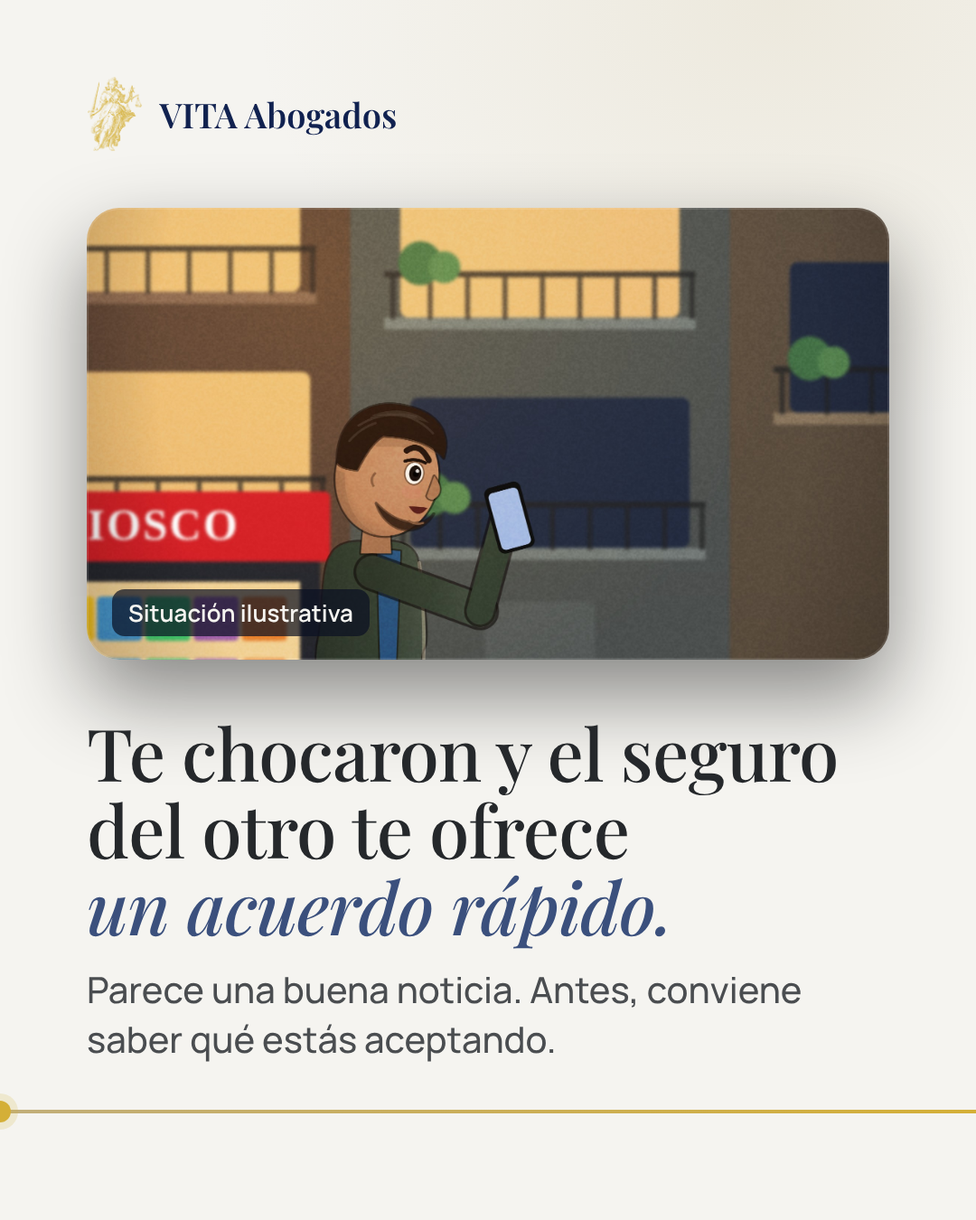
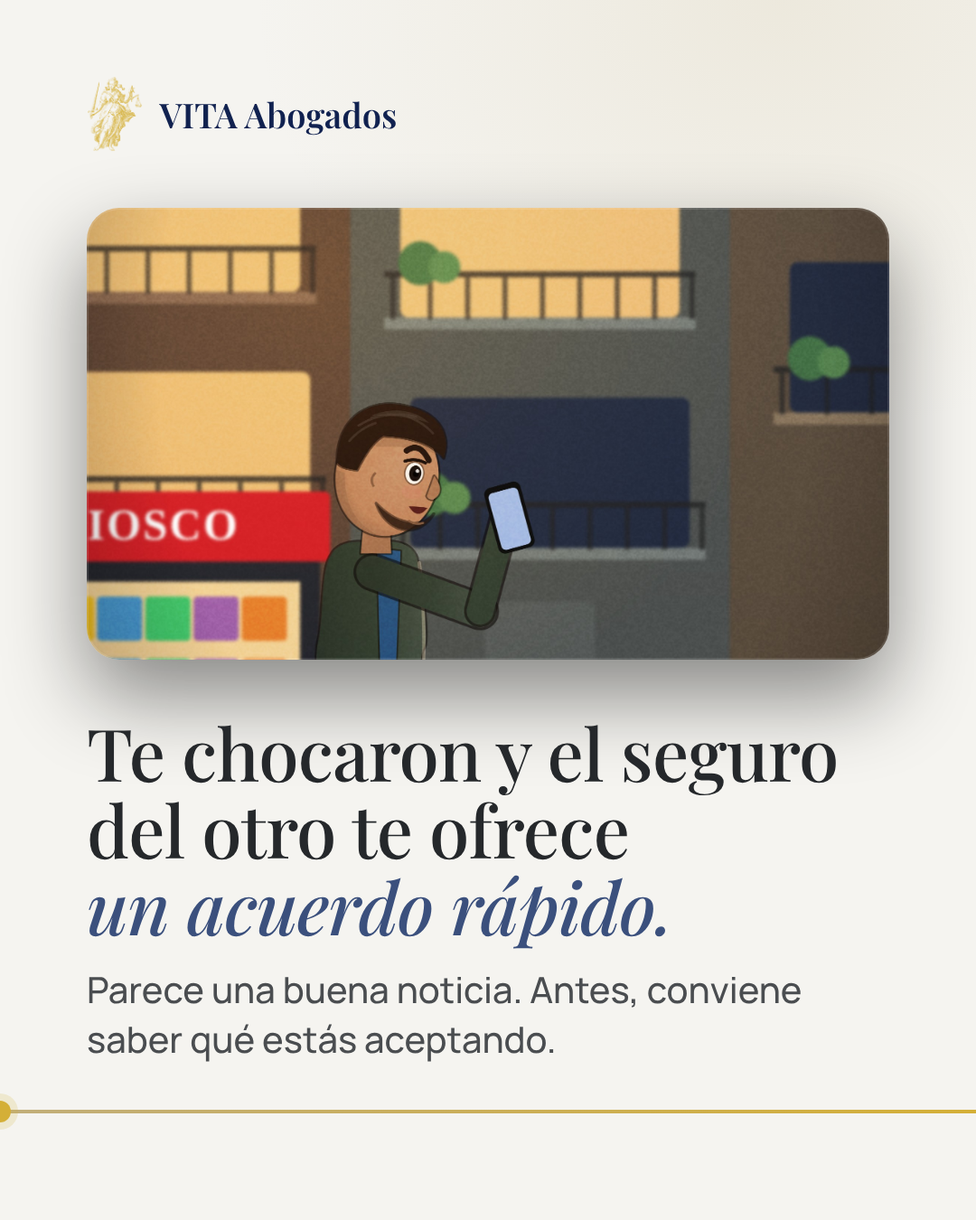
Redes: boceto VITA v3, realce de cine, sin carteles en pantalla y variante B
Grado de color, bokeh, haces de luz con polvo, golpes de zoom en palabras clave, brillo en la palabra del cierre;
módulo compartido historia/realce.js; variante B (otro gancho y apertura); carrusel sin rótulos (van en el texto).

Claude-Session: https://claude.ai/code/session_01FuLgnii3hdhmn8zyaCJffr

Changed region(s): [[0.0917, 0.4667, 0.3972, 0.5289]]

diff --git a/.claude/referencias/redes/herramientas/historias-prototipo/historias/vita.js b/.claude/referencias/redes/herramientas/historias-prototipo/historias/vita.js
@@ -4,13 +4,15 @@ import {lerp, ease, easeOut, easeIn, win, wob, clamp, backOut, hash} from '../hi
 import {personaje, caminar, parpadeo, respirar} from '../historia/personaje.js';
 import * as D from '../historia/decor.js';
 import * as PP from '../historia/primerplano.js';
+import {realce} from '../historia/realce.js';
 const ORO = '#D4AF37', NAVY = '#112250';
 const NICO = {peinado: 'corto', piel: '#c58c66', pelo: '#2a1c12', barba: true, remera: '#2f5d8a', campera: '#3d4a3a', manga: 'larga', pantalon: '#2b3140', zapato: '#1a1a1f'};
 
 export async function armar(V) {
-  const O = obra(V, {logo: 'vita.png', nombre: 'VITA Abogados', ctaSub: 'y te respondemos', hookHTML: '¿Firmás<br><em>o no?</em>', hookHasta: 1.15,
-    notas: [{desde: 0, hasta: 26.6, txt: 'Situación ilustrativa'}, {desde: 26.8, txt: 'Información general: no reemplaza una consulta.<br>Situación ilustrativa · Voz generada con IA'}]});
-  document.documentElement.style.cssText += `--f1:'Playfair Display';--f2:Manrope;--acc:${ORO};--hs:150px;--hw:700;--kwCol:#0E1218;--logoH:175px;--hookTop:380px;--numTop:400px;--subTop:1220px;--velo:rgba(10,16,34,.9);--ctaTop:560px`;
+  const VB = V.id === 'vita-b';
+  const O = obra(V, {logo: 'vita.png', nombre: 'VITA Abogados', ctaSub: 'y te respondemos', hookHTML: VB ? 'Plata rápida.<br><em>¿La agarrás?</em>' : '¿Firmás<br><em>o no?</em>', hookHasta: VB ? 1.0 : 1.15,
+    notas: []});
+  document.documentElement.style.cssText += `--f1:'Playfair Display';--f2:Manrope;--acc:${ORO};--hs:${VB ? 118 : 150}px;--hw:700;--kwCol:#0E1218;--logoH:175px;--hookTop:380px;--numTop:400px;--subTop:1220px;--velo:rgba(10,16,34,.9);--ctaTop:560px`;
   const F = n => V.frases.find(f => f.marca === n); const FI = i => V.frases.find(f => f.item === i);
   const fN = V.frases[0], fAl = F('alivio'), cta = V.frases.find(f => f.cta);
 
@@ -79,6 +81,18 @@ export async function armar(V) {
   rayas.innerHTML = [...Array(46)].map((_, i) => `<rect class="r" x="${hash(i + 11) * 1300 - 110}" y="0" width="${2 + hash(i + 5) * 5}" height="${200 + hash(i + 2) * 700}" rx="3" fill="${i % 5 ? '#e9e2cf' : ORO}" opacity="${.12 + hash(i + 8) * .35}"/>`).join('');
   hojas.innerHTML = [...Array(9)].map((_, i) => `<g class="h"><rect x="-90" y="-120" width="180" height="240" rx="6" fill="#f6f1e2"/>${[0, 1, 2, 3, 4, 5].map(j => `<rect x="-64" y="${-90 + j * 32}" width="${100 + hash(i * 7 + j) * 30}" height="8" rx="4" fill="#cfc8b4"/>`).join('')}</g>`).join('');
   const nico9 = personaje(rot.querySelector('.act'), NICO);
+
+  const {bokeh, sumarCapa, haz, hzDef, conPolvo, motasRender} = realce();
+  sumarCapa(e1, {f: 1.7, prof: 1.7, w: 1600, svg: bokeh(9, 3, ['#ffb35a', '#ffd9a0', '#ff6a3d', '#9fc4ff'], 1600)});
+  sumarCapa(e5, {f: 1.7, prof: 1.7, w: 1500, svg: bokeh(6, 9, ['#ffcf8a', '#ffe7c2'])});
+  sumarCapa(e5, {f: .6, prof: .6, w: 1500, blend: 'screen', svg: hzDef('#ffd9a0') + haz(1150, 1180, Math.PI * .02, 600, 200)});
+  conPolvo(e5, 1050, 1250, 260, 260, '#ffe2b0');
+  sumarCapa(e7, {f: .6, prof: .6, w: 1500, blend: 'screen', svg: hzDef('#ffe0a8') + haz(1170, 380, Math.PI * .18, 1500, 300) + haz(1040, 380, Math.PI * .2, 1500, 300)});
+  conPolvo(e7, 760, 900, 420, 360, '#fff0cc');
+  sumarCapa(e3, {f: .6, prof: .6, w: 1500, blend: 'screen', svg: hzDef('#fff6e0') + haz(1120, 380, Math.PI * .22, 1500, 300)});
+  conPolvo(e3, 760, 900, 420, 300, '#ffffff');
+  sumarCapa(e8, {f: 1.8, prof: 1.8, svg: bokeh(7, 21, ['#D4AF37', '#ffe9b0', '#8fb0ff'])});
+  O.motas = motasRender;
   const luz = (e, css) => { e.luz.style.cssText = css; };
   luz(e1, 'background:radial-gradient(circle at 30% 40%,rgba(255,196,120,.42),transparent 45%),linear-gradient(180deg,rgba(30,30,80,.1),rgba(0,0,10,.35));mix-blend-mode:soft-light');
   luz(e3, 'background:linear-gradient(100deg,rgba(255,255,255,.0) 40%,rgba(255,244,220,.35)),linear-gradient(180deg,transparent 60%,rgba(0,0,0,.25))');
@@ -134,6 +148,9 @@ export async function armar(V) {
   const hablaEn = (esc, pj) => () => { const [x, y] = esc.aPantalla(esc.capas[esc.capas.length - (esc === e1 ? 2 : 1)], pj.cabeza[0], pj.cabeza[1] - 70); return [x, y]; };
   O.tomas[0].boca = hablaEn(e1, nico1); O.tomas[O.tomas.length - 3].boca = hablaEn(e7, nico7);
   const golpes = [F('sello').t - .75, F('dolor').t - .05]; O.flash = t => Math.max(...golpes.map(g => t >= g ? .4 * Math.exp(-(t - g) * 10) : 0), Math.max(0, .5 * Math.exp(-(t - golpe) * 9)) * (t >= golpe ? 1 : 0), t >= .02 ? .55 * Math.exp(-(t - .02) * 8) : 0);
+  if (VB) { // variante B: adelanto de la caída en el primer segundo y paleta más cálida
+    const ini = O.tomas[0]; const ff = O.tomas.find(x => x.esc === e9); O.tomas.unshift(Object.assign({}, ff, {t0: 0, tr: 'zoom', lineas: .5})); ini.t0 = .85;
+    document.getElementById('grade').style.background = 'linear-gradient(180deg,rgba(255,120,40,.16),rgba(0,0,0,0) 50%,rgba(120,40,160,.12))'; }
   O.impactos = [.02, F('sello').t - .75, golpe, F('dolor').t - .05];
   return O;
 }

diff --git a/.claude/referencias/redes/herramientas/historias-prototipo/historia/obra.js b/.claude/referencias/redes/herramientas/historias-prototipo/historia/obra.js
@@ -5,7 +5,7 @@ export function obra(V, B) {
   ui.innerHTML = `<div id="lineas"></div><div id="onda"></div><div id="hook">${B.hookHTML}</div><div id="num"></div><div id="sub"></div><div id="globo" class="globo"></div>
     <div id="velo"></div><div id="marca">${B.nombre ? `<img src="${B.logo}"><span>${B.nombre}</span>` : ''}</div><div id="cta"><img src="${B.logo}">${B.nombre ? `<div class="nm">${B.nombre}</div>` : ''}<div class="c1">Comentá</div><div class="kw">${V.palabra}</div><div class="c2">${B.ctaSub}</div></div><div id="nota"></div><div id="flash"></div>`;
   const $ = s => ui.querySelector(s); const grain = grano(document.getElementById('fx'));
-  const O = {stage, escenas: {}, tomas: [], V, B,
+  const O = {stage, escenas: {}, tomas: [], V, B, palabrasH: V.frases.filter(f => !f.cta).flatMap(f => f.words.filter(w => w.h).map(w => w.t)),
     esc(def) { const e = escena(stage, def); O.escenas[def.nombre] = e; e.el.style.display = 'none'; return e; },
     frase: q => V.frases.find(f => f.marca === q),
     render(t) {
@@ -18,7 +18,10 @@ export function obra(V, B) {
       const tr = s.tr || (i % 3 === 2 ? 'zoom' : i % 2 ? 'v' : 'h');
       let tf = ''; const bl = (kO * kO + kI * kI) * 26;
       if (tr === 'zoom') tf = `scale(${1 + kO * kO * .5 + kI * kI * .35})`; else { const px = (-kO * kO + kI * kI) * 380; tf = tr === 'v' ? `translateY(${px}px)` : `translateX(${px}px)`; }
-      stage.style.transform = tf; stage.style.filter = bl > .3 ? `blur(${bl.toFixed(1)}px)` : 'none';
+      // dopamina: golpe de zoom sutil en cada palabra destacada; grado de color de cine
+      const pun = O.palabrasH.reduce((m, w) => Math.max(m, t >= w && t < w + .35 ? Math.exp(-(t - w) * 11) : 0), 0);
+      stage.style.transform = `${tf} scale(${1 + pun * .045})`; stage.style.filter = `contrast(1.07) saturate(1.13) brightness(1.02)${bl > .3 ? ` blur(${bl.toFixed(1)}px)` : ''}`;
+      O.motas && O.motas(t);
       const imp = (O.impactos || []).reduce((m, g) => Math.max(m, t >= g ? Math.exp(-(t - g) * 6) : 0), 0);
       const ln = $('#lineas'); ln.style.opacity = Math.max(imp * .85, kO * .6, kI * .6, s.lineas || 0); ln.style.transform = `rotate(${(t * 211) % 7}deg) scale(${1.1 + imp * .2})`;
       const on = $('#onda'); const og = (O.impactos || []).filter(g => t >= g && t < g + .7).pop(); if (og !== undefined) { const q = (t - og) / .7; on.style.opacity = (1 - q) * .9; on.style.transform = `translate(-50%,-50%) scale(${.2 + easeOut(q) * 3.2})`; } else on.style.opacity = 0;
@@ -32,10 +35,10 @@ export function obra(V, B) {
       if (it) { const kk = win(t, it.t - .08, it.t + .25); nm.textContent = it.item; nm.style.opacity = 1; nm.style.transform = `scale(${.6 + .4 * backOut(kk, 2.2)})`; } else nm.style.opacity = 0;
       const cc = $('#cta'), velo = $('#velo');
       if (cta && t >= cta.t - .3) { const kk = win(t, cta.t - .3, cta.t + .35); const lk = win(t, V.total - .45, V.total - .1); cc.style.opacity = easeOut(kk) * (1 - lk); velo.style.opacity = .93 * easeOut(kk) * (1 - lk);
-        cc.style.transform = `translateY(${(1 - expoOut(kk)) * 40}px)`; const kw = cc.querySelector('.kw'); const w1 = cta.words[1] ? cta.words[1].t : cta.t + .6; const k2 = win(t, w1 - .05, w1 + .3); kw.style.transform = `scale(${.7 + .3 * backOut(k2, 2.5)})`; kw.style.opacity = k2 > 0 ? 1 : 0; }
+        cc.style.transform = `translateY(${(1 - expoOut(kk)) * 40}px)`; const kw = cc.querySelector('.kw'); const w1 = cta.words[1] ? cta.words[1].t : cta.t + .6; const k2 = win(t, w1 - .05, w1 + .3); kw.style.transform = `scale(${.7 + .3 * backOut(k2, 2.5)})`; kw.style.opacity = k2 > 0 ? 1 : 0; const gl = ((t - w1) % 1.6) / 1.6; kw.style.backgroundImage = `linear-gradient(110deg, transparent ${gl * 160 - 40}%, rgba(255,255,255,.75) ${gl * 160 - 25}%, transparent ${gl * 160 - 10}%)`; const ps = 1 + .035 * Math.max(0, Math.sin((t - w1) * 5.2)); kw.style.transform = `scale(${(.7 + .3 * backOut(k2, 2.5)) * ps})`; }
       else { cc.style.opacity = 0; velo.style.opacity = 0; }
       const mk = $('#marca'); mk.style.opacity = cta && t >= cta.t - .3 ? 0 : .95;
-      $('#nota').innerHTML = (B.notas || []).filter(x => t >= (x.desde ?? 0) && t < (x.hasta ?? 1e9)).map(x => x.txt).join('<br>');
+      $('#nota').innerHTML = (B.notas || []).filter(x => t >= (x.desde ?? 0) && t < (x.hasta ?? 1e9)).map(x => x.txt).join('<br>'); $('#nota').style.display = $('#nota').innerHTML ? '' : 'none';
       $('#flash').style.opacity = O.flash ? O.flash(t) : 0;
       grain(t);
     }};

diff --git a/.claude/referencias/redes/herramientas/historias-prototipo/carrusel/vita-guia.html b/.claude/referencias/redes/herramientas/historias-prototipo/carrusel/vita-guia.html
@@ -61,7 +61,7 @@ body{background:#666;display:flex;flex-wrap:wrap;gap:40px;padding:40px;width:120
 <!-- 2 · LA SITUACIÓN (escena del reel) -->
 <div class="ab cla" id="lamina-2" data-formato="carrusel">
   <div class="marca"><img src="../vita.png"><span>VITA Abogados</span></div>
-  <div class="foto" style="left:96px;right:96px;top:230px;height:500px"><img src="stills/esquina.jpg" style="object-position:50% 52%"><span class="tag">Situación ilustrativa</span></div>
+  <div class="foto" style="left:96px;right:96px;top:230px;height:500px"><img src="stills/esquina.jpg" style="object-position:50% 52%"></div>
   <div style="position:absolute;left:96px;right:96px;top:790px;display:flex;flex-direction:column;gap:24px">
     <div class="t" style="font-size:80px">Te chocaron y el seguro del otro te ofrece <em>un acuerdo rápido.</em></div>
     <div class="p" style="font-size:40px">Parece una buena noticia. Antes, conviene saber qué estás aceptando.</div>
@@ -78,7 +78,7 @@ body{background:#666;display:flex;flex-wrap:wrap;gap:40px;padding:40px;width:120
     <div class="t" style="font-size:96px">Lo que firmás puede <em>cerrar tu reclamo.</em></div>
     <div class="p" style="width:700px">Si después aparece una lesión, quizás ya no puedas pedir más.</div>
   </div>
-  <span class="tag" style="left:96px;bottom:150px">Situación ilustrativa</span>
+  
   <div class="hilo"><i style="right:auto;left:-12px"></i></div>
 </div>
 
@@ -109,7 +109,7 @@ body{background:#666;display:flex;flex-wrap:wrap;gap:40px;padding:40px;width:120
 <!-- 6 · PASO 3 (escena del reel: oficina de VITA) -->
 <div class="ab cla" id="lamina-6" data-formato="carrusel">
   <div class="marca"><img src="../vita.png"><span>VITA Abogados</span></div>
-  <div class="foto" style="left:96px;width:520px;top:230px;height:640px"><img src="stills/estudio.jpg" style="object-position:42% 50%"><span class="tag">Situación ilustrativa</span></div>
+  <div class="foto" style="left:96px;width:520px;top:230px;height:640px"><img src="stills/estudio.jpg" style="object-position:42% 50%"></div>
   <div class="n" style="position:absolute;left:680px;top:330px">3</div>
   <div style="position:absolute;left:96px;right:96px;top:920px;display:flex;flex-direction:column;gap:26px">
     <div class="t" style="font-size:90px">Consultá antes <em>con un abogado.</em></div>
@@ -132,7 +132,7 @@ body{background:#666;display:flex;flex-wrap:wrap;gap:40px;padding:40px;width:120
     <div class="kw">FIRMA</div>
     <div class="p">y te respondemos.</div>
   </div>
-  <div class="f" style="position:absolute;left:96px;right:96px;bottom:150px">Información general: no reemplaza una consulta.</div>
+  
   <div class="hilo" style="right:96px"><i style="right:auto;left:-12px"></i></div>
 </div>
 

diff --git a/.claude/referencias/redes/herramientas/historias-prototipo/historia/realce.js b/.claude/referencias/redes/herramientas/historias-prototipo/historia/realce.js
@@ -1,0 +1,15 @@
+// Realce de cine para las mini historias de las 4 marcas: bokeh fuera de foco, haces de luz y polvo en suspensión.
+// Uso: const R = realce(); R.sumarCapa(escena, {f, prof, w, blend, svg}); R.conPolvo(escena, cx, cy, rx, ry, color); O.motas = R.motasRender;
+import {hash} from './base.js';
+export function realce() {
+  const bokeh = (n, sd, cols, w = 1500) => [...Array(n)].map((_, i) => `<circle cx="${hash(i + sd) * w}" cy="${200 + hash(i * 3 + sd) * 1500}" r="${30 + hash(i + sd * 2) * 70}" fill="${cols[i % cols.length]}" opacity="${.18 + hash(i + 5 + sd) * .3}"/>`).join('');
+  const sumarCapa = (e, def) => { const d = document.createElement('div'); d.className = 'capa'; d.innerHTML = `<svg xmlns="http://www.w3.org/2000/svg" width="${def.w || 1080}" height="1920" viewBox="0 0 ${def.w || 1080} 1920" overflow="visible">${def.svg}</svg>`;
+    d.style.width = `${def.w || 1080}px`; d.style.height = '1920px'; if (def.blend) d.style.mixBlendMode = def.blend; e.el.insertBefore(d, e.luz); e.capas.push(Object.assign(def, {d, svg: d.firstChild})); return e.capas[e.capas.length - 1]; };
+  const haz = (x, y, ang, len, w, col) => `<polygon points="${x},${y} ${x + Math.sin(ang - .18) * len},${y + Math.cos(ang - .18) * len} ${x + Math.sin(ang + .18) * len},${y + Math.cos(ang + .18) * len}" fill="url(#hz)" opacity=".55"/>`;
+  const hzDef = col => `<defs><linearGradient id="hz" x1="0" y1="0" x2="0" y2="1"><stop offset="0" stop-color="${col}" stop-opacity=".55"/><stop offset="1" stop-color="${col}" stop-opacity="0"/></linearGradient></defs>`;
+  const motas = [];
+  const conPolvo = (e, cx, cy, rx, ry, col) => { const c = sumarCapa(e, {f: 1.15, prof: 1.15, w: 1500, blend: 'screen', svg: [...Array(26)].map((_, i) => `<circle class="m" r="${1.5 + hash(i + 70) * 3}" fill="${col}"/>`).join('')}); motas.push({c, cx, cy, rx, ry}); };
+  const motasRender = t => motas.forEach(({c, cx, cy, rx, ry}) => c.svg.querySelectorAll('.m').forEach((m, i) => { const a = t * (.15 + hash(i) * .25) + hash(i + 3) * 6.28;
+    m.setAttribute('cx', cx + Math.sin(a * 1.3) * rx * hash(i + 9)); m.setAttribute('cy', cy + Math.cos(a) * ry * hash(i + 12) - ((t * 18 * hash(i + 4)) % ry)); m.setAttribute('opacity', .25 + .55 * Math.abs(Math.sin(a * 2.1))); }));
+  return {bokeh, sumarCapa, haz, hzDef, conPolvo, motasRender};
+}

diff --git a/.claude/referencias/redes/herramientas/historias-prototipo/historia.html b/.claude/referencias/redes/herramientas/historias-prototipo/historia.html
@@ -26,8 +26,10 @@ html,body{margin:0;width:1080px;height:1920px;overflow:hidden;background:#000}
 #cta .nm{font-family:var(--f1);font-weight:600;font-size:56px;color:#fff;margin:-14px 0 40px}
 #lineas{position:absolute;inset:-300px;opacity:0;background:repeating-conic-gradient(from 0deg at 50% 50%,transparent 0deg 2.1deg,rgba(255,250,235,.7) 2.25deg 2.55deg,transparent 2.7deg 5.3deg);-webkit-mask-image:radial-gradient(circle at 50% 50%,transparent 26%,#000 62%);mask-image:radial-gradient(circle at 50% 50%,transparent 26%,#000 62%);mix-blend-mode:screen;pointer-events:none}
 #onda{position:absolute;left:540px;top:1060px;width:420px;height:420px;border-radius:50%;border:10px solid rgba(255,236,190,.85);box-shadow:0 0 60px rgba(255,220,150,.6),inset 0 0 40px rgba(255,220,150,.4);opacity:0;transform:translate(-50%,-50%)}
+#grade{position:absolute;inset:0;pointer-events:none;background:linear-gradient(180deg,rgba(0,70,110,.16),rgba(0,0,0,0) 45%,rgba(255,150,70,.10));mix-blend-mode:soft-light}
+#cta .kw{background-color:var(--acc);background-repeat:no-repeat}
 #flash{position:absolute;inset:0;background:var(--flashCol,#fff3d6);opacity:0;mix-blend-mode:screen}
-</style></head><body><div id="stage"></div><div id="fx"></div><div id="ui"></div>
+</style></head><body><div id="stage"></div><div id="grade"></div><div id="fx"></div><div id="ui"></div>
 <script type="module">
 const q = new URLSearchParams(location.search); const id = q.get('r');
 const V = await (await fetch(`voz/${id}-h.json`)).json();

diff --git a/.claude/referencias/redes/herramientas/historias-prototipo/historia/base.js b/.claude/referencias/redes/herramientas/historias-prototipo/historia/base.js
@@ -57,7 +57,7 @@ export function globo(el, f, t, [x, y], {lado = 1} = {}) {
   const k = win(t, f.t - .15, f.t + .15), o = 1 - win(t, f.fin + .25, f.fin + .5);
   el.innerHTML = f.words.map(w => `<span style="opacity:${t >= w.t - .04 ? 1 : .0}">${w.w}</span>`).join(' ') + '<i></i>';
   el.style.opacity = o; const W = el.offsetWidth, H = el.offsetHeight;
-  const bx = clamp(x - (lado > 0 ? 120 : W - 120), 70, 1080 - 150 - W), by = clamp(y - H - 70, 250, 1500);
+  const bx = clamp(x - (lado > 0 ? 120 : W - 120), 70, 1080 - 150 - W), by = clamp(y - H - 70, 345, 1500);
   el.style.left = `${bx}px`; el.style.top = `${by}px`; el.style.transform = `scale(${.6 + .4 * backOut(k, 2)})`; el.style.transformOrigin = `${clamp(x - bx, 40, W - 40)}px ${H + 30}px`;
   const tail = el.querySelector('i'); tail.style.left = `${clamp(x - bx - 18, 30, W - 70)}px`;
 }

diff --git a/.claude/referencias/redes/herramientas/historias-prototipo/historias/vita-b.js b/.claude/referencias/redes/herramientas/historias-prototipo/historias/vita-b.js
@@ -1,0 +1,2 @@
+// Variante B de VITA «Antes de firmar»: misma escena y guion, otro gancho y otra apertura.
+export {armar} from './vita.js';

diff --git a/.claude/referencias/redes/herramientas/historias-prototipo/sonido.py b/.claude/referencias/redes/herramientas/historias-prototipo/sonido.py
@@ -47,8 +47,8 @@ def mezclar(rid, amb, fx, estilo, quiebres=()):
     run(['-i', d + '-sfx.wav', '-i', d + '-mus.wav', '-i', d + '-amb.wav', '-filter_complex', '[0:a][1:a][2:a]amix=inputs=3:normalize=0,loudnorm=I=-14:TP=-1.5:LRA=9[o]', '-map', '[o]', '-ar', '48000', d + '-mix-sinvoz.wav'])
     print(rid, 'audio listo', T)
 
-def vita():
-    V = json.load(open('voz/vita-h.json')); F = lambda m: next(f for f in V['frases'] if f.get('marca') == m); FI = lambda i: next(f for f in V['frases'] if f.get('item') == i)
+def vita(rid='vita'):
+    V = json.load(open(f'voz/{rid}-h.json')); F = lambda m: next(f for f in V['frases'] if f.get('marca') == m); FI = lambda i: next(f for f in V['frases'] if f.get('item') == i)
     fr = V['frases']; T = V['total']; T1 = fr[1]['t']; golpe = F('sello')['t'] + .12
     cortes = [T1 - .04, T1 + 1.95, F('lapicera')['t'] - .1, F('sello')['t'] - .45, fr[4]['t'] - .05, F('dolor')['t'] - .05, F('dolor')['t'] + 2.1, fr[6]['t'] - .05, FI(1)['t'] - .1, FI(2)['t'] - .1, FI(3)['t'] - .1, F('alivio')['t'] - .1, T - .4]
     amb = [(0, T1, 'ciudad'), (T1, T1 + 1.95, 'ciudad'), (T1 + 1.95, F('lapicera')['t'], 'oficina'), (F('lapicera')['t'], fr[4]['t'], 'oficina'), (fr[4]['t'], F('dolor')['t'], 'oficina'),
@@ -61,7 +61,7 @@ def vita():
         n = int(d * SR); x = bp(rng.standard_normal(n), 300, 5000) * np.linspace(.2, 1, n) ** 1.5 * .5; x[-int(.05 * SR):] *= np.linspace(1, 0, int(.05 * SR)); return x
     fx += [(caeL - .55, lambda: B.S_whoosh(.55, 120, 3000), 1.0), (caeL, choque, 1.0), (t4 - .1, lambda: B.S_riser(.5) if hasattr(B, 'S_riser') else viento(.5), .6),
            (t4, lambda: viento(ate - t4), .9), (ate, sello_golpe, 1.0), (ate, B.S_boom, .7)]
-    mezclar('vita', amb, fx, 'vita', quiebres=[(golpe - .1, golpe + .7)])
+    mezclar(rid, amb, fx, 'vita', quiebres=[(golpe - .1, golpe + .7)])
 
 if __name__ == '__main__':
-    {'vita': vita}[sys.argv[1]]()
+    r = sys.argv[1]; {'vita': vita, 'vita-b': lambda: vita('vita-b')}[r]()

diff --git a/.claude/referencias/redes/herramientas/historias-prototipo/historia_guion.py b/.claude/referencias/redes/herramientas/historias-prototipo/historia_guion.py
@@ -59,3 +59,9 @@ R = {
    dict(q='laura', say='Ahora sí, a vender.', show='Ahora sí, a vender.', p=.3, marca='alivio'),
    dict(q='nar', say='Comentá «orden», y te mostramos cómo.', show='Comentá *ORDEN*', p=.2, cta=1, r=-3)]),
 }
+
+# Variante B de VITA: mismo guion y palabra; cambia el gancho, la primera frase y la apertura (adelanto de la caída).
+import copy as _copy
+R['vita-b'] = _copy.deepcopy(R['vita'])
+R['vita-b']['frases'][0] = dict(q='nico', say='¿Firmo ya, o espero?', show='¿Firmo ya, o espero?', p=.35, marca='notif')
+R['vita-b']['frases'][1] = dict(q='nar', say='El seguro del otro te llama y te ofrece plata rápido, hoy.', show='El seguro del otro te ofrece *plata rápido, hoy.*', p=.35)

diff --git a/.claude/referencias/redes/herramientas/historias-prototipo/voz.py b/.claude/referencias/redes/herramientas/historias-prototipo/voz.py
@@ -92,4 +92,4 @@ async def main(ids):
         json.dump(dict(id=rid, total=round(total, 3), palabra=g['palabra'], frases=frases), open(f'voz/{rid}.json', 'w'), ensure_ascii=False, indent=1)
         print(rid, 'total', round(total, 2), 's', len(words), 'palabras')
 
-asyncio.run(main(sys.argv[1:] or list(R)))
+if __name__ == "__main__": asyncio.run(main(sys.argv[1:] or list(R)))

diff --git a/docs/redes/boceto-vita-2026-11-20/README.md b/docs/redes/boceto-vita-2026-11-20/README.md
@@ -2,9 +2,9 @@
 
 Para aprobar. Nada de esto está publicado ni programado.
 
-## Reel «Antes de firmar» (31 s, 1080 × 1920, 30 fps)
+## Reel «Antes de firmar» v3 (31 s, 1080 × 1920, 30 fps con desenfoque de movimiento)
 
-- **Archivos:** `reel-antes-de-firmar.mp4` (con voz). La versión sin voz, para sumar el audio en tendencia desde la app, se genera con la publicación. Portada: `carrusel/portada-reel.png`, sobre el plano del contrato gigante.
+- **Archivos:** `reel-antes-de-firmar.mp4` (versión A) y `reel-antes-de-firmar-B.mp4` (versión B: otro gancho, «Plata rápida. ¿La agarrás?», otra primera frase, apertura con un adelanto de la caída y paleta más cálida; sale a 5 días o más de la A). La versión sin voz, para sumar el audio en tendencia desde la app, se genera con la publicación. Portada: `carrusel/portada-reel.png`, sobre el plano del contrato gigante.
 - **Ficha:** destinatario, alguien a quien chocaron y el seguro del otro le ofrece un acuerdo · objetivo, que mire hasta el final y comente · mensaje, antes de firmar, esperá · apoyo, tres cosas para revisar · acción, «Comentá FIRMA».
 - **Historia:** Nico, trabajador de barrio, de noche en una esquina con el auto chocado. Arranca con golpe, flash, temblor y líneas de velocidad en el segundo 0. Le llega «Te ofrecemos un acuerdo, necesitamos tu firma hoy» y pasa por la oficina de la aseguradora.
 - **Giro irreal:** Nico aparece diminuto sobre la propuesta gigante y una lapicera enorme cae del cielo y se clava al lado. El sello «ESPERÁ» cae con onda expansiva. El papel se abre y Nico cae entre renglones y hojas («Lo que firmás puede cerrar tu reclamo»), hasta aterrizar de golpe en el sillón de su living, con el Obelisco en la ventana.
@@ -15,7 +15,9 @@ Para aprobar. Nada de esto está publicado ni programado.
 - **Resolución:** este archivo es la vista previa en 1080 × 1920. La versión 4K Ultra HD (2160 × 3840) se está renderizando y se suma al terminar.
 - **Sonido:** ambiente por escena, golpe, sello, colectivo, papel, música de marca que baja con la voz. Mezcla a −14,6 LUFS.
 - **Voz:** sintética (edge-tts es-AR, Elena y Tomás). En Metricool va `isAiGenerated: true`. El rótulo «Voz generada con IA» está en el cierre.
-- **Rótulos:** «Situación ilustrativa» todo el reel; «Información general: no reemplaza una consulta» en el cierre.
+- **Realce v3:** grado de color de cine, bokeh fuera de foco, haces de luz con polvo en suspensión, golpe de zoom en cada palabra clave, brillo que recorre «FIRMA» y desenfoque de movimiento real (render a 60 cps mezclado a 30).
+- **Sin carteles en pantalla** (decisión de la responsable del 20/11). «Situación ilustrativa», «Información general: no reemplaza una consulta» y «Voz generada con IA» van en el texto de la publicación, y la marca de IA va en Metricool (`isAiGenerated`).
+- **Motor compartido:** los efectos están en `historia/obra.js`, `historia/realce.js` y `historia/personaje.js`, así que valen para las 4 marcas.
 
 **Texto de la publicación:**
 
@@ -28,7 +30,7 @@ Para aprobar. Nada de esto está publicado ni programado.
 >
 > Comentá «FIRMA» y te respondemos.
 >
-> Situación ilustrativa. Información general: no reemplaza una consulta.
+> Situación ilustrativa. Información general: no reemplaza una consulta. Voz generada con IA.
 >
 > #accidentedetransito #seguros #abogados #buenosaires #CABA
 

diff --git a/.ai-context/handoff-redes-4-marcas.md b/.ai-context/handoff-redes-4-marcas.md
@@ -76,6 +76,9 @@ You are continuing work from a previous chat. That chat is gone; this file is th
 | Logo y nombre de la marca en todos los reels, posteos e historias | Pedido de la responsable, 20/11 |
 | Reels con planos rápidos e irreales que enganchen: caídas, golpes de cámara, escalas imposibles, efectos de impacto; personajes con mucha más definición | Pedido de la responsable, 20/11 (referencia de ritmo: videos de julianeaborna; se toman recursos, no se copia) |
 | Las 81 historias de destacadas del 20/11 se publicaron todas | Verificado en Metricool el 20/11 a la 1:53 |
+| Sin carteles en pantalla («Situación ilustrativa», «no reemplaza una consulta», «Voz generada con IA»): las aclaraciones van en el texto de la publicación y la marca de IA en Metricool | Pedido de la responsable, 20/11 («que no aparezca ningún cartel de carácter ilustrativo») |
+| Volumen x2 del 25/11 al 04/12 con variantes (A/B/R) de las mismas historias, separadas por 5 días o más | Pedido de la responsable, 20/11 |
+| Todo lo que se mejora en el boceto de VITA va al motor compartido: el boceto es de un solo rubro y quedan otros 3 | Recordatorio de la responsable, 20/11 |
 
 ## 7. Changed / rejected
 - Cierre «el botón está en el perfil» → «Comentá PALABRA» (el botón no existe)
